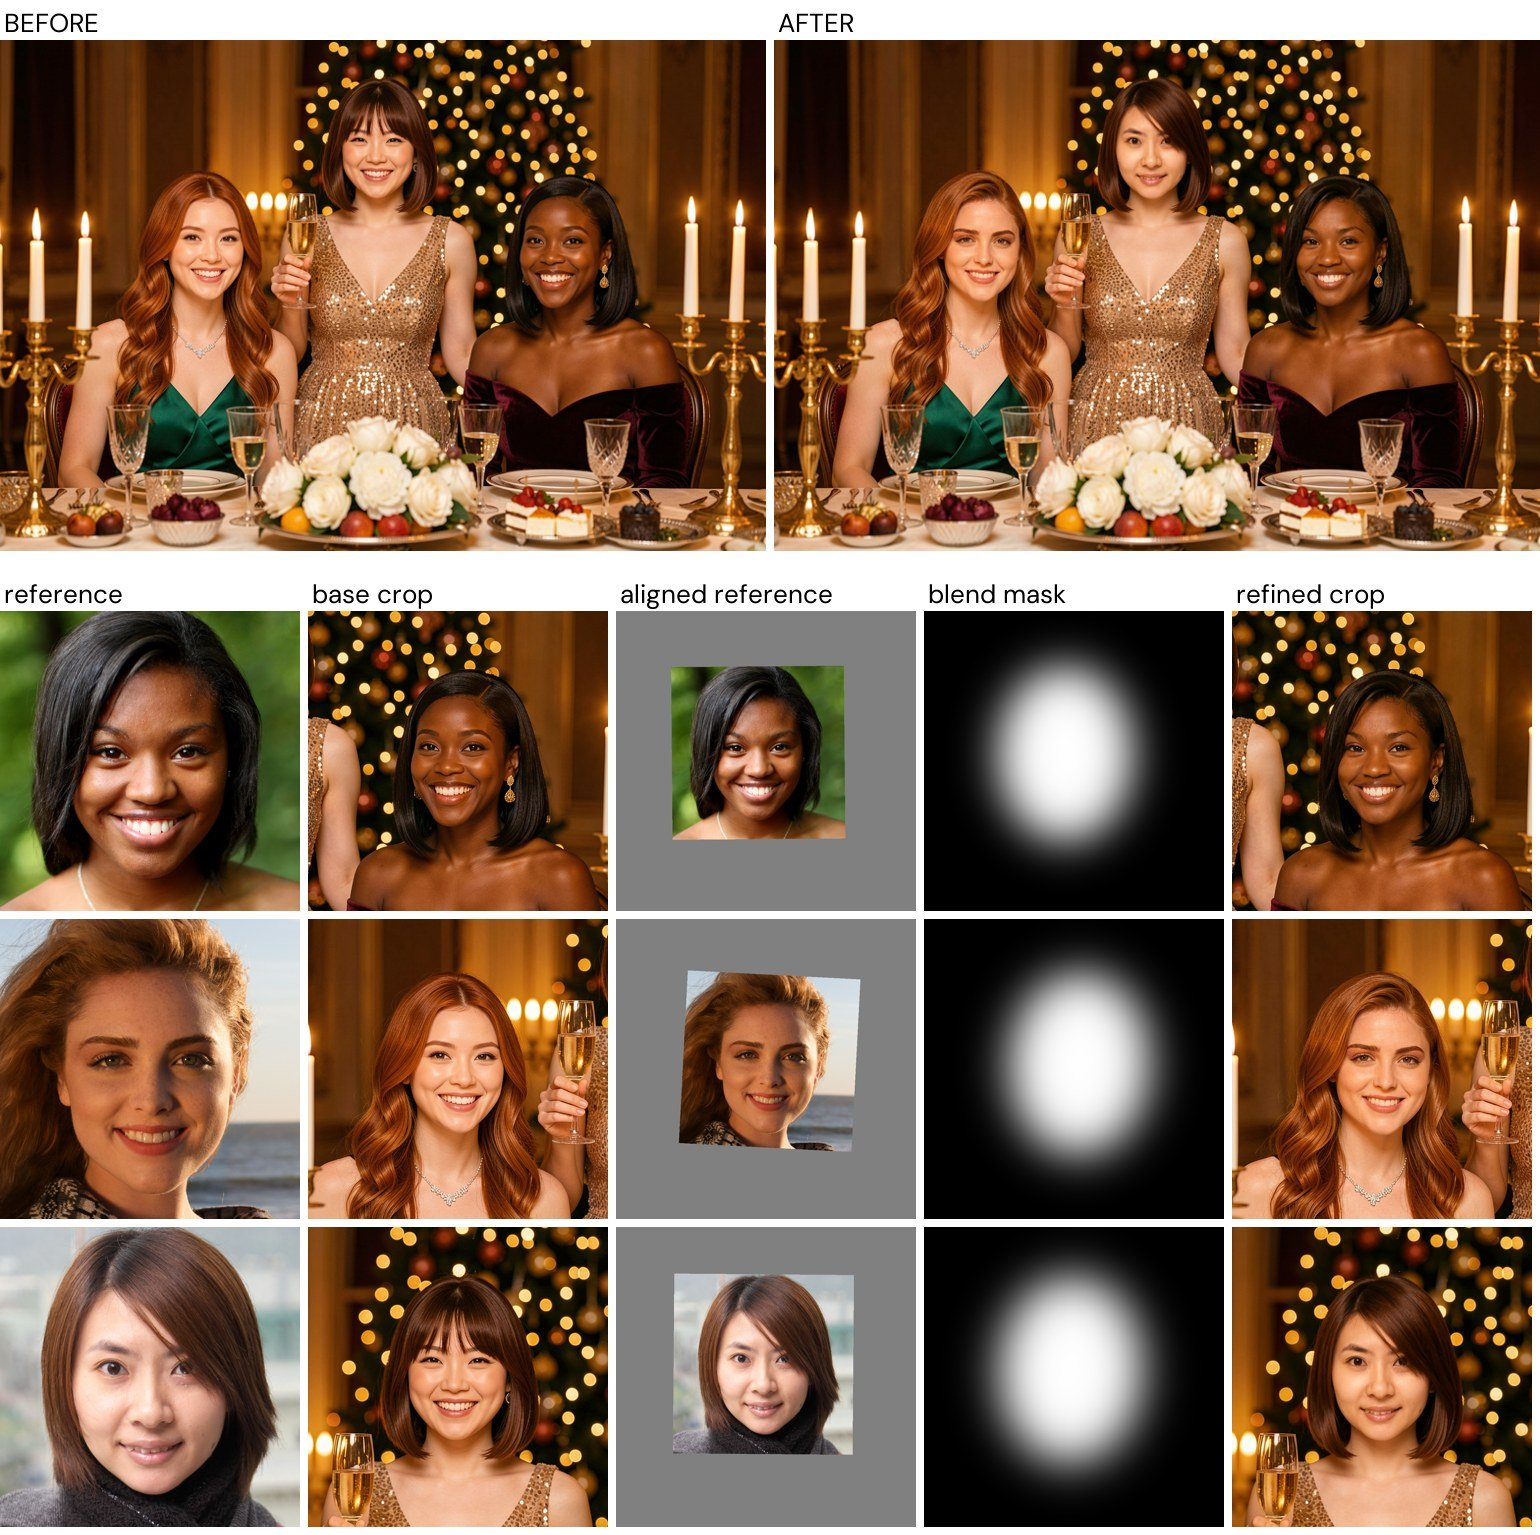
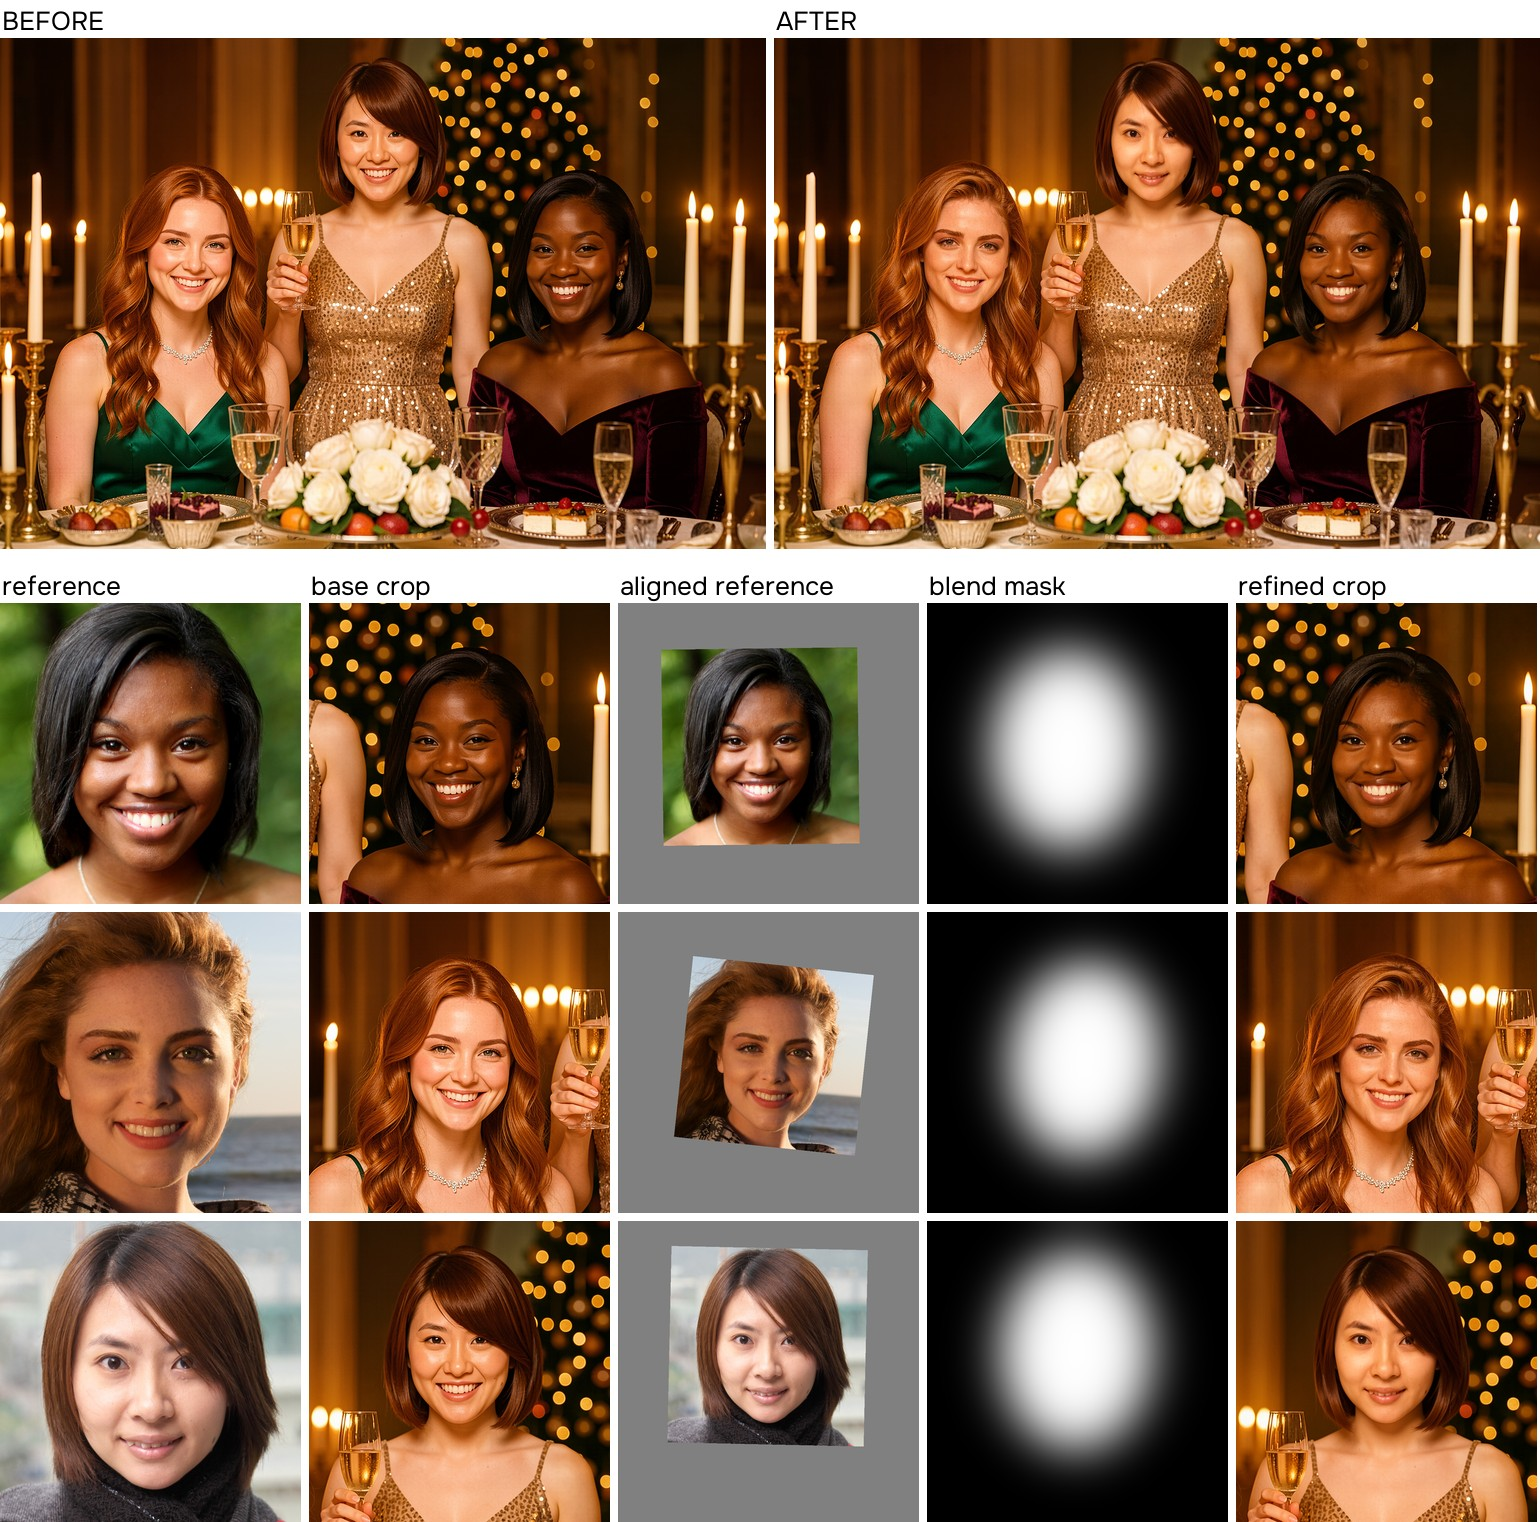
fix README

diff --git a/README.md b/README.md
@@ -88,10 +88,10 @@ python run_face.py --reference examples/faces/f3.png \
 
 One reference per person, `--reference a.png b.png c.png`. Faces in the image
 are matched to the references by ArcFace similarity, so the order does not
-matter. Here the base is generated from the prompt alone, with no references:
+matter.
 
 ```bash
-python run_face.py --reference-in-base 0 \
+python run_face.py \
   --reference examples/faces/f1.png examples/faces/f2.png examples/faces/f4.png \
   --prompt "A lush, glamorous photograph of three young women celebrating at an opulent festive dinner table in a grand candlelit hall. Two of them are seated at the table and the third stands between and slightly behind them, all three facing the camera and smiling. Seated on the left, a fair-skinned woman with long wavy copper-auburn hair, wearing an emerald-green silk evening gown with thin straps and a delicate diamond necklace. Seated on the right, a Black woman with sleek shoulder-length black hair, wearing a deep burgundy velvet off-shoulder gown and gold drop earrings. Standing in the middle, an East Asian woman with a chin-length chestnut-brown bob and side-swept bangs, wearing a shimmering champagne-gold sequined gown, raising a glass of champagne. The long table is laden with crystal glasses, golden candelabras with glowing candles, white roses and peonies, silver platters with fruit and desserts; behind them warm bokeh of fairy lights and a tall decorated Christmas tree. Rich jewel tones, warm golden candlelight, luxurious and joyful mood, photorealistic, 50mm lens, highly detailed. No text or lettering anywhere." \
   --image-size 1024x1536 --seed 1 --save-debug 1 --save out/face_group.png
